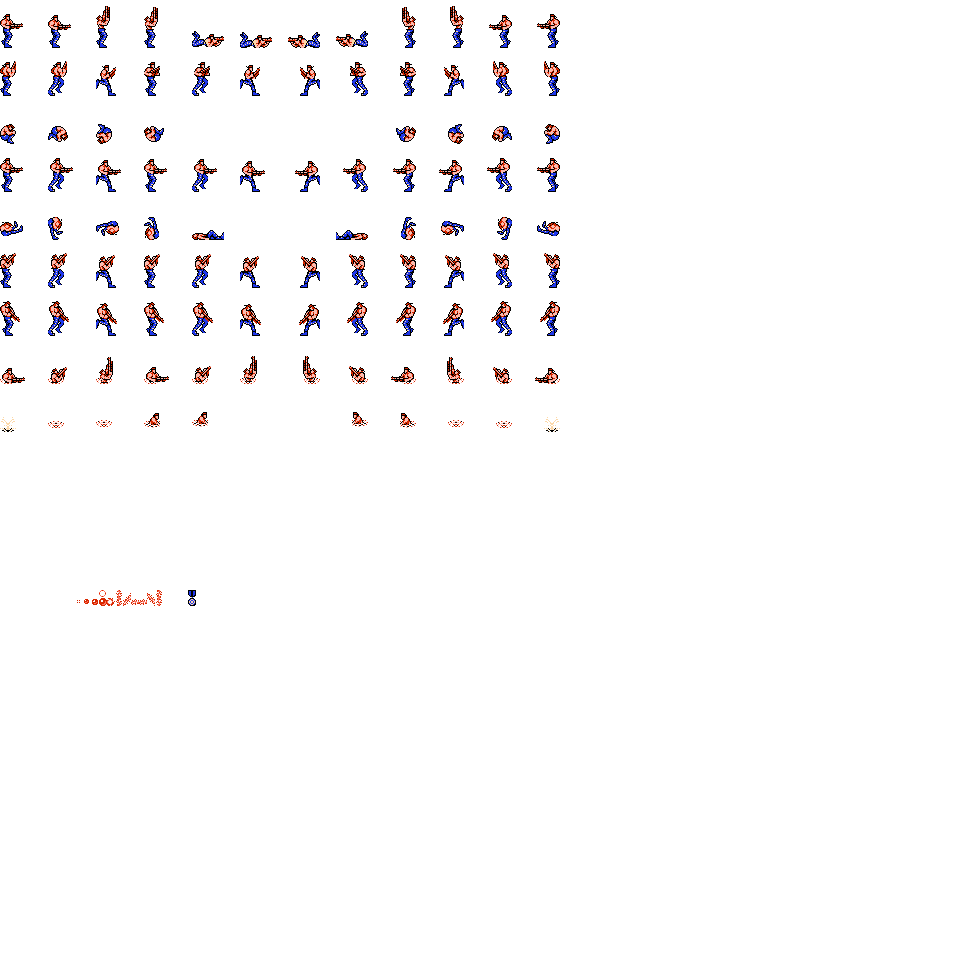
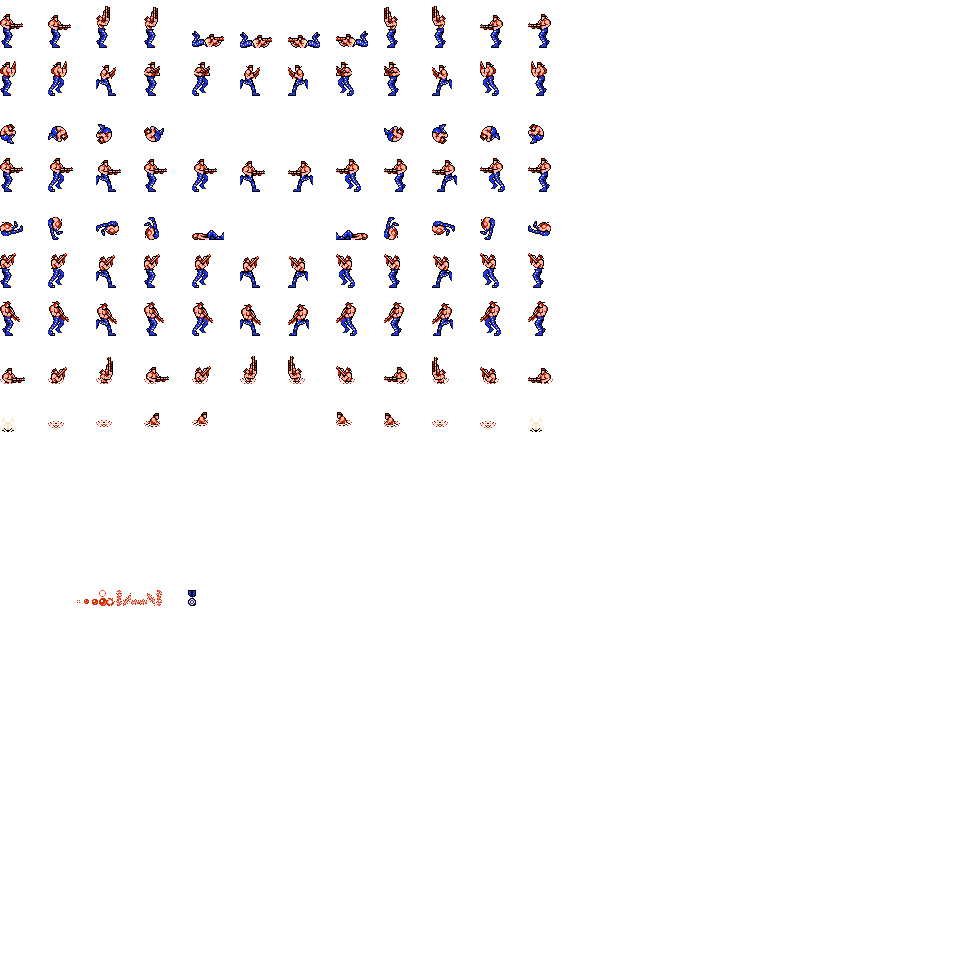
Añadidas animaciones, no se mueve bien

diff --git a/FakeContra/Player.cpp b/FakeContra/Player.cpp
@@ -14,56 +14,65 @@
 
 enum PlayerAnims
 {
-	STAND_LEFT, STAND_RIGHT, MOVE_LEFT, MOVE_RIGHT, JUMP_LEFT, JUMP_RIGHT, BEND_LEFT, BEND_RIGHT
+	STAND_FORW_LEFT_NS, STAND_FOR_LEFT_SH, STAND_FORW_RIGHT_NS, STAND_FORW_RIGHT_SH,
+	STAND_UP_LEFT_NS, STAND_UP_LEFT_SH, STAND_UP_RIGHT_NS, STAND_UP_RIGHT_SH,
+	STAND_DOWN_LEFT_NS, STAND_DOWN_LEFT_SH, STAND_DOWN_RIGHT_NS, STAND_DOWN_RIGHT_SH,
+	MOVE_LEFT_NS, MOVE_LEFT_SH, MOVE_RIGHT_NS, MOVE_RIGHT_SH,
+	JUMP_LEFT, JUMP_RIGHT,
+	SWIM_FORW_LEFT_NS, SWIM_FOR_LEFT_SH, SWIM_FORW_RIGHT_NS, SWIM_FORW_RIGHT_SH,
+	SWIM_UP_LEFT_NS, SWIM_UP_LEFT_SH, SWIM_UP_RIGHT_NS, SWIM_UP_RIGHT_SH,
+	BEND_LEFT, BEND_RIGHT,
+	DIEW_LEFT, DIE_RIGHT,
+	CHOF,
 };
 
 
 void Player::init(const glm::ivec2 &tileMapPos, ShaderProgram &shaderProgram)
 {
 	bJumping = false;
-	spritesheet.loadFromFile("images/player.png", TEXTURE_PIXEL_FORMAT_RGBA);
-	sprite = Sprite::createSprite(glm::ivec2(96, 96), glm::vec2(0.1666, 0.20), &spritesheet, &shaderProgram);
+	spritesheet.loadFromFile("images/personaje.png", TEXTURE_PIXEL_FORMAT_RGBA);
+	sprite = Sprite::createSprite(glm::ivec2(96, 96), glm::vec2(0.05, 0.05), &spritesheet, &shaderProgram);
 	sprite->setNumberAnimations(8);
 	
-		sprite->setAnimationSpeed(STAND_LEFT, 8);
-		sprite->addKeyframe(STAND_LEFT, glm::vec2(0.f, 0.20f));
+		sprite->setAnimationSpeed(STAND_FORW_LEFT_NS, 8);
+		sprite->addKeyframe(STAND_FORW_LEFT_NS, glm::vec2(0.55f, 0.00f));
 		
-		sprite->setAnimationSpeed(STAND_RIGHT, 8);
-		sprite->addKeyframe(STAND_RIGHT, glm::vec2(0.0f, 0.f));
+		sprite->setAnimationSpeed(STAND_FORW_RIGHT_NS, 8);
+		sprite->addKeyframe(STAND_FORW_RIGHT_NS, glm::vec2(0.0f, 0.00f));
 		
-		sprite->setAnimationSpeed(MOVE_LEFT, 8);
-		sprite->addKeyframe(MOVE_LEFT, glm::vec2(0.1666f, 0.20f));
-		sprite->addKeyframe(MOVE_LEFT, glm::vec2(0.3333f, 0.20f));
-		sprite->addKeyframe(MOVE_LEFT, glm::vec2(0.5000f, 0.20f));
-		sprite->addKeyframe(MOVE_LEFT, glm::vec2(0.6666f, 0.20f));
-		sprite->addKeyframe(MOVE_LEFT, glm::vec2(0.8333f, 0.20f));
-		sprite->addKeyframe(MOVE_LEFT, glm::vec2(0.5000f, 0.20f));
-		
-		sprite->setAnimationSpeed(MOVE_RIGHT, 8);
-		sprite->addKeyframe(MOVE_RIGHT, glm::vec2(0.1666f, 0.0f));
-		sprite->addKeyframe(MOVE_RIGHT, glm::vec2(0.3333f, 0.0f));
-		sprite->addKeyframe(MOVE_RIGHT, glm::vec2(0.5000f, 0.0f));
-		sprite->addKeyframe(MOVE_RIGHT, glm::vec2(0.6666f, 0.0f));
-		sprite->addKeyframe(MOVE_RIGHT, glm::vec2(0.8333f, 0.0f));
-		sprite->addKeyframe(MOVE_RIGHT, glm::vec2(0.5000f, 0.0f));
+		sprite->setAnimationSpeed(MOVE_LEFT_NS, 8);
+		sprite->addKeyframe(MOVE_LEFT_NS, glm::vec2(0.55f, 0.05f));
+		sprite->addKeyframe(MOVE_LEFT_NS, glm::vec2(0.50f, 0.05f));
+		sprite->addKeyframe(MOVE_LEFT_NS, glm::vec2(0.45f, 0.05f));
+		sprite->addKeyframe(MOVE_LEFT_NS, glm::vec2(0.40f, 0.05f));
+		sprite->addKeyframe(MOVE_LEFT_NS, glm::vec2(0.35f, 0.05f));
+		sprite->addKeyframe(MOVE_LEFT_NS, glm::vec2(0.30f, 0.05f));
+
+		sprite->setAnimationSpeed(MOVE_RIGHT_NS, 8);
+		sprite->addKeyframe(MOVE_RIGHT_NS, glm::vec2(0.00f, 0.05f));
+		sprite->addKeyframe(MOVE_RIGHT_NS, glm::vec2(0.05f, 0.05f));
+		sprite->addKeyframe(MOVE_RIGHT_NS, glm::vec2(0.10f, 0.05f));
+		sprite->addKeyframe(MOVE_RIGHT_NS, glm::vec2(0.15f, 0.05f));
+		sprite->addKeyframe(MOVE_RIGHT_NS, glm::vec2(0.20f, 0.05f));
+		sprite->addKeyframe(MOVE_RIGHT_NS, glm::vec2(0.25f, 0.05f));
 
 		sprite->setAnimationSpeed(JUMP_LEFT, 8);
-		sprite->addKeyframe(JUMP_LEFT, glm::vec2(0.0000f, 0.60f));
-		sprite->addKeyframe(JUMP_LEFT, glm::vec2(0.1666f, 0.60f));
-		sprite->addKeyframe(JUMP_LEFT, glm::vec2(0.3333f, 0.60f));
-		sprite->addKeyframe(JUMP_LEFT, glm::vec2(0.5000f, 0.60f));
+		sprite->addKeyframe(JUMP_LEFT, glm::vec2(0.55f, 0.10f));
+		sprite->addKeyframe(JUMP_LEFT, glm::vec2(0.50f, 0.10f));
+		sprite->addKeyframe(JUMP_LEFT, glm::vec2(0.45f, 0.10f));
+		sprite->addKeyframe(JUMP_LEFT, glm::vec2(0.40f, 0.10f));
 
 		sprite->setAnimationSpeed(JUMP_RIGHT, 8);
-		sprite->addKeyframe(JUMP_RIGHT, glm::vec2(0.0000f, 0.4f));
-		sprite->addKeyframe(JUMP_RIGHT, glm::vec2(0.1666f, 0.4f));
-		sprite->addKeyframe(JUMP_RIGHT, glm::vec2(0.3333f, 0.4f));
-		sprite->addKeyframe(JUMP_RIGHT, glm::vec2(0.5000f, 0.4f));
+		sprite->addKeyframe(JUMP_RIGHT, glm::vec2(0.00f, 0.10f));
+		sprite->addKeyframe(JUMP_RIGHT, glm::vec2(0.05f, 0.10f));
+		sprite->addKeyframe(JUMP_RIGHT, glm::vec2(0.10f, 0.10f));
+		sprite->addKeyframe(JUMP_RIGHT, glm::vec2(0.15f, 0.10f));
 
 		sprite->setAnimationSpeed(BEND_LEFT, 8);
-		sprite->addKeyframe(BEND_LEFT, glm::vec2(0.6666f, 0.4f));
+		sprite->addKeyframe(BEND_LEFT, glm::vec2(0.30f, 0.00f));
 
 		sprite->setAnimationSpeed(BEND_RIGHT, 8);
-		sprite->addKeyframe(BEND_RIGHT, glm::vec2(0.8333f, 0.4f));
+		sprite->addKeyframe(BEND_RIGHT, glm::vec2(0.20f, 0.00f));
 
 		
 	sprite->changeAnimation(0);
@@ -77,54 +86,54 @@ void Player::update(int deltaTime)
 	sprite->update(deltaTime);
 	if(Game::instance().getSpecialKey(GLUT_KEY_LEFT))
 	{
-		if (!bJumping && sprite->animation() != MOVE_LEFT) sprite->changeAnimation(MOVE_LEFT);
+		if (!bJumping && sprite->animation() != MOVE_LEFT_NS) sprite->changeAnimation(MOVE_LEFT_NS);
 		else if (bJumping && sprite->animation() != JUMP_LEFT) sprite->changeAnimation(JUMP_LEFT);
 		posPlayer.x -= WALK_STEP;
 		if(map->collisionMoveLeft(posPlayer, glm::ivec2(32, 32)))
 		{
 			posPlayer.x += WALK_STEP;
-			if(!bJumping) sprite->changeAnimation(STAND_LEFT);
+			if(!bJumping) sprite->changeAnimation(STAND_FORW_LEFT_NS);
 		}
 	}
 	else if(Game::instance().getSpecialKey(GLUT_KEY_RIGHT))
 	{
-		if(!bJumping && sprite->animation() != MOVE_RIGHT) sprite->changeAnimation(MOVE_RIGHT);
+		if(!bJumping && sprite->animation() != MOVE_RIGHT_NS) sprite->changeAnimation(MOVE_RIGHT_NS);
 		if(bJumping && sprite->animation() != JUMP_RIGHT) sprite->changeAnimation(JUMP_RIGHT);
 		posPlayer.x += WALK_STEP;
 		if(map->collisionMoveRight(posPlayer, glm::ivec2(32, 32)))
 		{
 			posPlayer.x -= WALK_STEP;
-			if (!bJumping) sprite->changeAnimation(STAND_RIGHT);
+			if (!bJumping) sprite->changeAnimation(STAND_FORW_RIGHT_NS);
 		}
 	}
 	else if (Game::instance().getSpecialKey(GLUT_KEY_DOWN) && !bJumping)
 	{
-		if (sprite->animation() == MOVE_RIGHT || sprite->animation() == STAND_RIGHT) sprite->changeAnimation(BEND_RIGHT);
-		if (sprite->animation() == MOVE_LEFT || sprite->animation() == STAND_LEFT) sprite->changeAnimation(BEND_LEFT);
+		if (sprite->animation() == MOVE_RIGHT_NS || sprite->animation() == STAND_FORW_RIGHT_NS) sprite->changeAnimation(BEND_RIGHT);
+		if (sprite->animation() == MOVE_LEFT_NS || sprite->animation() == STAND_FORW_LEFT_NS) sprite->changeAnimation(BEND_LEFT);
 	}
 	
 	else
 	{
 		if (!bJumping) {
-			if (sprite->animation() == MOVE_LEFT || sprite->animation() == BEND_LEFT)
-				sprite->changeAnimation(STAND_LEFT);
-			else if (sprite->animation() == MOVE_RIGHT || sprite->animation() == BEND_RIGHT)
-				sprite->changeAnimation(STAND_RIGHT);
+			if (sprite->animation() == MOVE_LEFT_NS || sprite->animation() == BEND_LEFT)
+				sprite->changeAnimation(STAND_FORW_LEFT_NS);
+			else if (sprite->animation() == MOVE_RIGHT_NS || sprite->animation() == BEND_RIGHT)
+				sprite->changeAnimation(STAND_FORW_RIGHT_NS);
 		}
 	}
 	
 	if(bJumping)
 	{
-		if (sprite->animation() == MOVE_LEFT || sprite->animation() == STAND_LEFT) sprite->changeAnimation(JUMP_LEFT);
-		else if (sprite->animation() == MOVE_RIGHT || sprite->animation() == STAND_RIGHT) sprite->changeAnimation(JUMP_RIGHT);
+		if (sprite->animation() == MOVE_LEFT_NS || sprite->animation() == STAND_FORW_LEFT_NS) sprite->changeAnimation(JUMP_LEFT);
+		else if (sprite->animation() == MOVE_RIGHT_NS || sprite->animation() == STAND_FORW_RIGHT_NS) sprite->changeAnimation(JUMP_RIGHT);
 
 		jumpAngle += JUMP_ANGLE_STEP;
 		if(jumpAngle == 180)
 		{
 			bJumping = false;
 			posPlayer.y = startY;
-			if (sprite->animation() == JUMP_LEFT) sprite->changeAnimation(STAND_LEFT);
-			else if (sprite->animation() == JUMP_RIGHT) sprite->changeAnimation(STAND_RIGHT);
+			if (sprite->animation() == JUMP_LEFT) sprite->changeAnimation(STAND_FORW_LEFT_NS);
+			else if (sprite->animation() == JUMP_RIGHT) sprite->changeAnimation(STAND_FORW_RIGHT_NS);
 		}
 		else
 		{
@@ -135,8 +144,8 @@ void Player::update(int deltaTime)
 	}
 	else
 	{
-		if (sprite->animation() == JUMP_LEFT) sprite->changeAnimation(STAND_LEFT);
-		else if (sprite->animation() == JUMP_RIGHT) sprite->changeAnimation(STAND_RIGHT);
+		if (sprite->animation() == JUMP_LEFT) sprite->changeAnimation(STAND_FORW_LEFT_NS);
+		else if (sprite->animation() == JUMP_RIGHT) sprite->changeAnimation(STAND_FORW_RIGHT_NS);
 
 		posPlayer.y += FALL_STEP;
 		if(map->collisionMoveDown(posPlayer, glm::ivec2(32, 32), &posPlayer.y))
